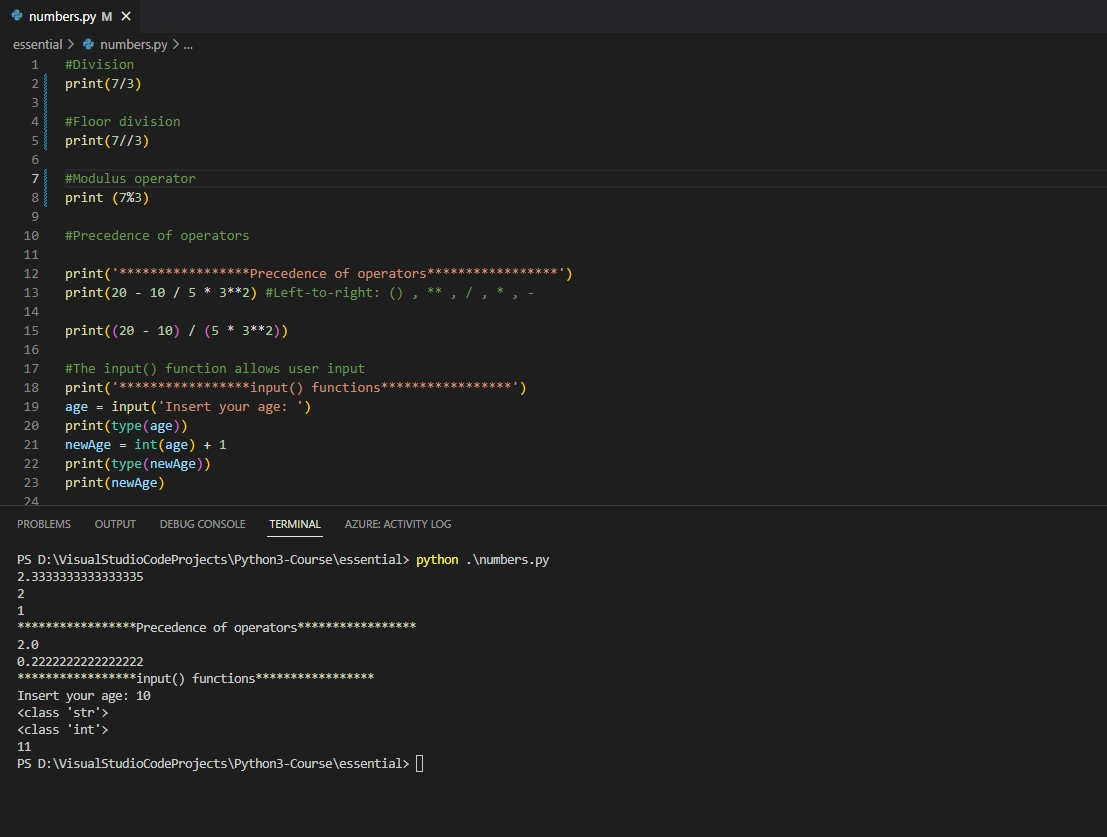
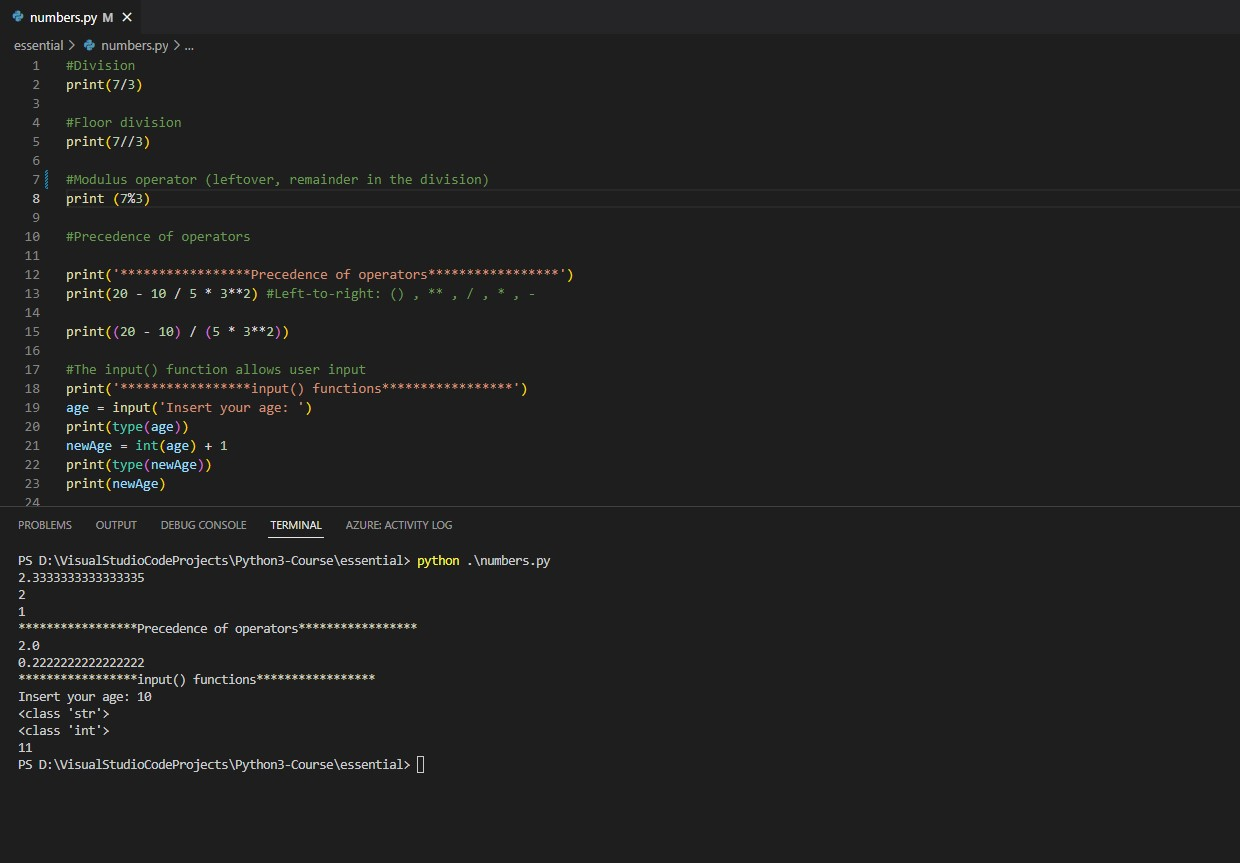
Examples of Numbers in Python

Changed region(s): [[0.0, 0.0, 0.5221, 0.9319]]

diff --git a/essential/numbers.py b/essential/numbers.py
@@ -4,7 +4,7 @@ print(7/3)
 #Floor division
 print(7//3)
 
-#Modulus operator
+#Modulus operator (leftover, remainder in the division)
 print (7%3) 
 
 #Precedence of operators
